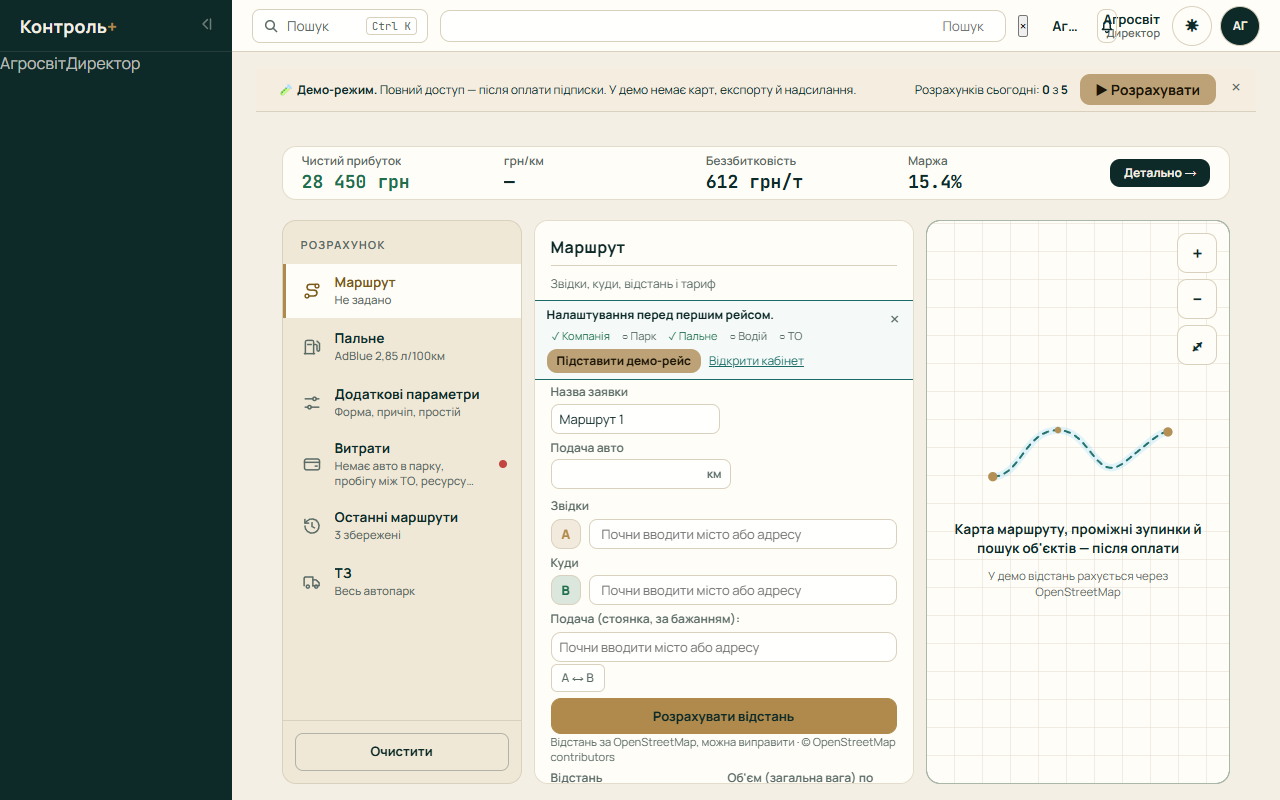
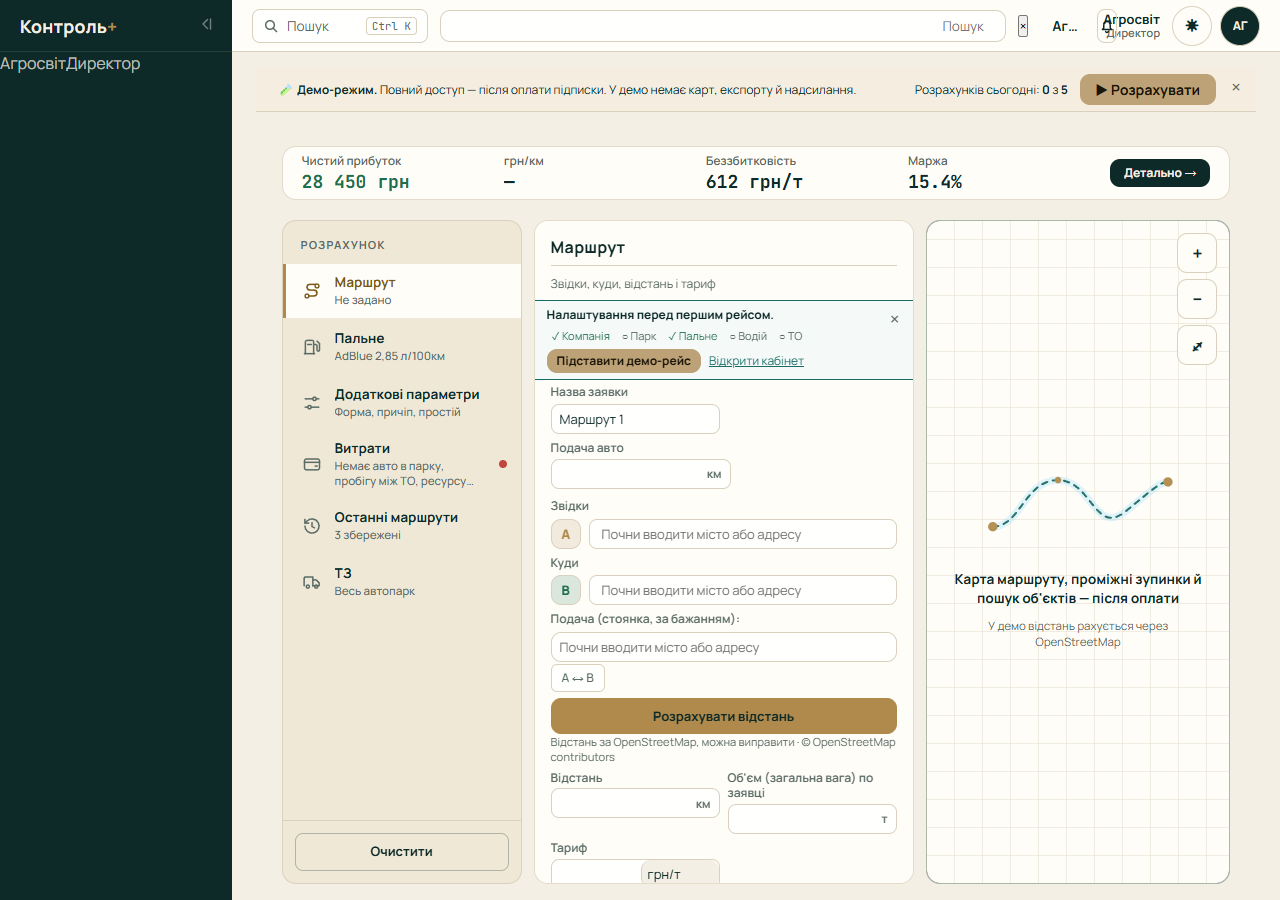
Висота колонок: одна функція для сайту й Контроль+, container query для «Повернення»
TCCalcMenu.bindHeight: --lm-room = вікно − верх рядка колонок − 16px; перерахунок на resize, scroll і ResizeObserver (демо-банер, банер налаштувань, згортання меню CRM). «Повернення» на всю ширину за шириною панелі (@container tcpanel).

diff --git a/index.html b/index.html
@@ -4470,8 +4470,9 @@
             }
         }
 
-        /* 901–1365px форма вузька (панель ~34–42%): «Повернення» не вміщається в пів-ширини без обрізання тексту, тому йде на всю ширину */
-        @media (min-width: 901px) and (max-width: 1365px) {
+        /* Форма вузька: «Повернення» не вміщається в пів-ширини без обрізання тексту, тому йде на всю ширину. Міряємо ширину самої панелі секції
+           (container query), а не вікна: у Контроль+ з сайдбаром панель вужча за ту саму ширину вікна сайту. */
+        @container tcpanel (max-width: 480px) {
             body.layout-studio[data-theme] #tc-op .tc-sec-body:has(.tc-f-podacha) .tc-f-return { grid-column: 1 / -1; }
         }
 
@@ -4580,6 +4581,12 @@
         body.layout-studio.tc-lm[data-theme] #tc-op .tc-acc-body { padding: 4px 16px 20px; }
         body.layout-studio.tc-lm[data-theme] #tc-op .tc-acc-row.is-miss { background: transparent; }
         body.layout-studio.tc-lm[data-theme] #tc-op .tc-vehicle-body { display: grid; gap: 10px; }
+        /* Панель секції — контейнер для container query («Повернення» на всю ширину, коли панель вузька) */
+        body.layout-studio.tc-lm[data-theme][data-studio-view="calc"] #studio-left { container: tcpanel / inline-size; }
+        /* Без меню (скрипт не завантажився) контейнера немає: старе правило за шириною вікна */
+        @media (min-width: 901px) and (max-width: 1365px) {
+            body.layout-studio:not(.tc-lm)[data-theme] #tc-op .tc-sec-body:has(.tc-f-podacha) .tc-f-return { grid-column: 1 / -1; }
+        }
         /* Поля адрес («Звідки / Куди», «Подача») — на всю ширину рядка, щоб підказка «Почни вводити місто або адресу» влазила повністю */
         body.layout-studio.tc-lm[data-theme] #tc-op .tc-sg:has(> .tc-f-a) { grid-template-columns: minmax(0, 1fr); }
         body.layout-studio.tc-lm[data-theme] #tc-op .tc-sec-body:has(.tc-f-podacha) :is(.tc-f-a, .tc-f-b, .tc-f-podacha) { grid-column: 1 / -1; }
@@ -4602,7 +4609,7 @@
         @media (min-width: 901px) {
             body.layout-studio.tc-lm[data-theme][data-studio-view="calc"]:not([data-calc-detail="1"]) {
                 --lm-top: calc(var(--cc-off, var(--tc-sticky-h, 0px)) + var(--tc-strip-h, 49px) + 8px);
-                --lm-h: calc(100vh - var(--lm-top) - var(--lm-gap, 8px));
+                --lm-h: calc(100vh - var(--lm-top) - 16px);
             }
             body.layout-studio.tc-lm[data-theme][data-studio-view="calc"]:not([data-calc-detail="1"]) #studio-columns {
                 display: grid; grid-template-columns: 240px minmax(380px, min(34%, 520px)) minmax(0, 1fr); gap: 12px; align-items: start;
@@ -7389,6 +7396,8 @@
         });
         document.body.classList.add('tc-lm');
         placeRouteBtn(routeBtn, routeHome);
+        // Висота колонок: одна функція для сайту й Контроль+ (--lm-room = вікно − верх рядка колонок − 16px).
+        window.TCCalcMenu.bindHeight(window, document);
         const op = opById('tc-op');
         // Живі підсумки: будь-яка зміна полів перерахує рядки під пунктами меню.
         op.addEventListener('input', calcMenuRefresh);
@@ -18958,9 +18967,6 @@
         var slack = Math.max(0, vh - left.getBoundingClientRect().bottom);
         var room = vh - Math.max(colsTop, stickyTop) - 8 - slack;
         document.documentElement.style.setProperty('--cc-room', Math.max(360, Math.round(room)) + 'px');
-        // Ліве меню: меню, панель і мапа однієї висоти — від верху колонок (або липкого верху) до низу вікна; slack не потрібен, бо панель скролиться всередині.
-        var lmGap = parseFloat(getComputedStyle(document.body).getPropertyValue('--lm-gap')) || 8; // у Контроль+ нижній відступ 16px (kp-calc.css)
-        document.documentElement.style.setProperty('--lm-room', Math.max(360, Math.round(vh - Math.max(colsTop, stickyTop) - lmGap)) + 'px');
     }
     // Перерахунок на scroll (від 901px; на телефоні карта 40vh з CSS): passive + один requestAnimationFrame на кадр.
     var scrollRaf = 0;

diff --git a/assets/calc-menu.js b/assets/calc-menu.js
@@ -186,7 +186,62 @@
     return api;
   }
 
+  // ---- висота колонок ----
+  var ROOM_GAP = 16;
+  var ROOM_MIN = 360;
+  // Висота рядка колонок: від його верху (або липкого верху, коли сторінку прокручено) до низу вікна мінус відступ.
+  function roomHeight(viewportH, colsTop, stickyTop, gap) {
+    var top = Math.max(Number(colsTop) || 0, Number(stickyTop) || 0);
+    var g = gap == null ? ROOM_GAP : gap;
+    return Math.max(ROOM_MIN, Math.round(Number(viewportH) - top - g));
+  }
+  var WATCH = ['#main-app', '#sticky-top', '#tc-kpi-bar', '#studio-columns', '#demo-banner', '#billing-banner', '#onboard-banner', '.kp-shell-strip', '#kp-shell-top'];
+  // Одна функція для сайту й Контроль+: пише --lm-room (меню, панель і мапа однієї висоти). Перераховує на resize, scroll і зміну розмірів
+  // сторінки (демо-банер, банер «Налаштування», згортання меню CRM) через ResizeObserver; на ≤900px змінну прибирає (там висоти з CSS).
+  function bindHeight(win, doc) {
+    var root = doc.documentElement;
+    var raf = 0;
+    function schedule() {
+      if (raf) return;
+      raf = 1;
+      win.requestAnimationFrame(function () { raf = 0; measure(); });
+    }
+    function measure() {
+      var cols = doc.getElementById('studio-columns');
+      if (!cols) return null;
+      if (win.innerWidth <= 900) { root.style.removeProperty('--lm-room'); return null; }
+      var nav = doc.getElementById('tc-calc-nav');
+      var sticky = nav && win.getComputedStyle ? parseFloat(win.getComputedStyle(nav).top) || 0 : 0;
+      var h = roomHeight(win.innerHeight, cols.getBoundingClientRect().top, sticky, ROOM_GAP);
+      root.style.setProperty('--lm-room', h + 'px');
+      return h;
+    }
+    var seen = [];
+    var ro = win.ResizeObserver ? new win.ResizeObserver(schedule) : null;
+    function observeAll() {
+      if (!ro) return;
+      WATCH.forEach(function (sel) {
+        var el = doc.querySelector(sel);
+        if (el && seen.indexOf(el) < 0) { seen.push(el); ro.observe(el); }
+      });
+    }
+    observeAll();
+    if (ro && doc.body) ro.observe(doc.body);
+    win.addEventListener('resize', schedule);
+    win.addEventListener('scroll', schedule, { passive: true });
+    var mo = null;
+    if (win.MutationObserver && doc.body) {
+      // Банери з'являються/зникають (hidden, клас), каркас Контроль+ додає вузли: нові спостерігаємо й міряємо наново.
+      mo = new win.MutationObserver(function () { observeAll(); schedule(); });
+      mo.observe(doc.body, { childList: true, subtree: true, attributes: true, attributeFilter: ['class', 'hidden', 'style'] });
+    }
+    measure();
+    return { measure: measure, disconnect: function () { if (ro) ro.disconnect(); if (mo) mo.disconnect(); win.removeEventListener('resize', schedule); win.removeEventListener('scroll', schedule); } };
+  }
+
   var lib = {
+    roomHeight: roomHeight,
+    bindHeight: bindHeight,
     STORAGE_KEY: STORAGE_KEY,
     DEFAULT_KEY: DEFAULT_KEY,
     SECTIONS: SECTIONS,

diff --git a/apps/kontrol-plus/src/kp-calc.css b/apps/kontrol-plus/src/kp-calc.css
@@ -9,7 +9,6 @@
         --tc-fs-s: 12px;
         --tc-h: 30px;
         --cc-off: calc(var(--kp-strip-h, 0px) + var(--kp-top-h, 52px));
-        --lm-gap: 16px; /* ліве меню калькулятора: меню, панель і мапа закінчуються за 16px від низу вікна */
     }
 }
 
